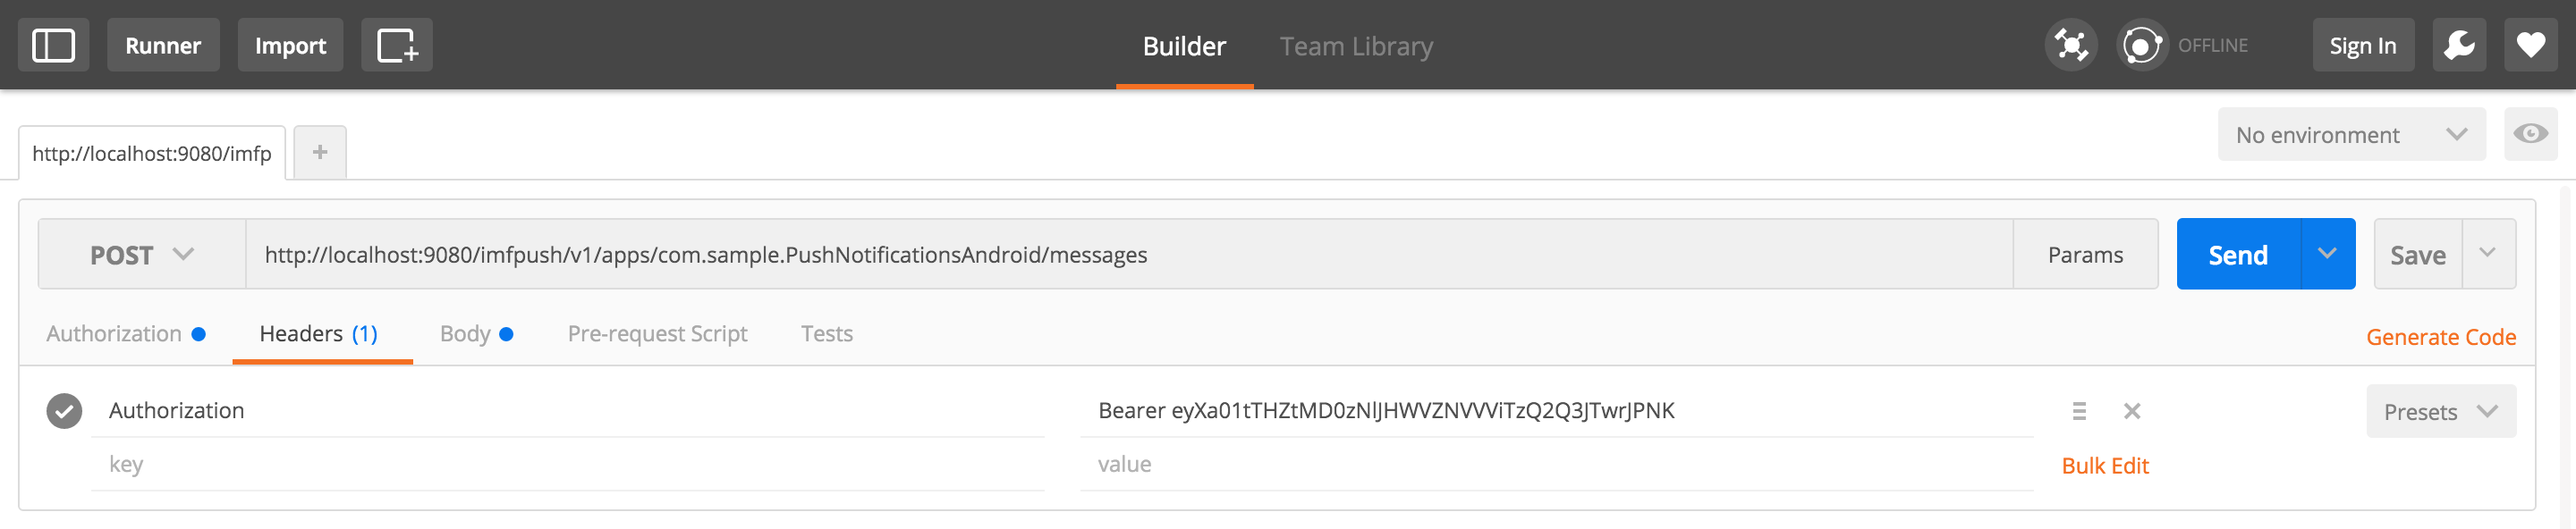
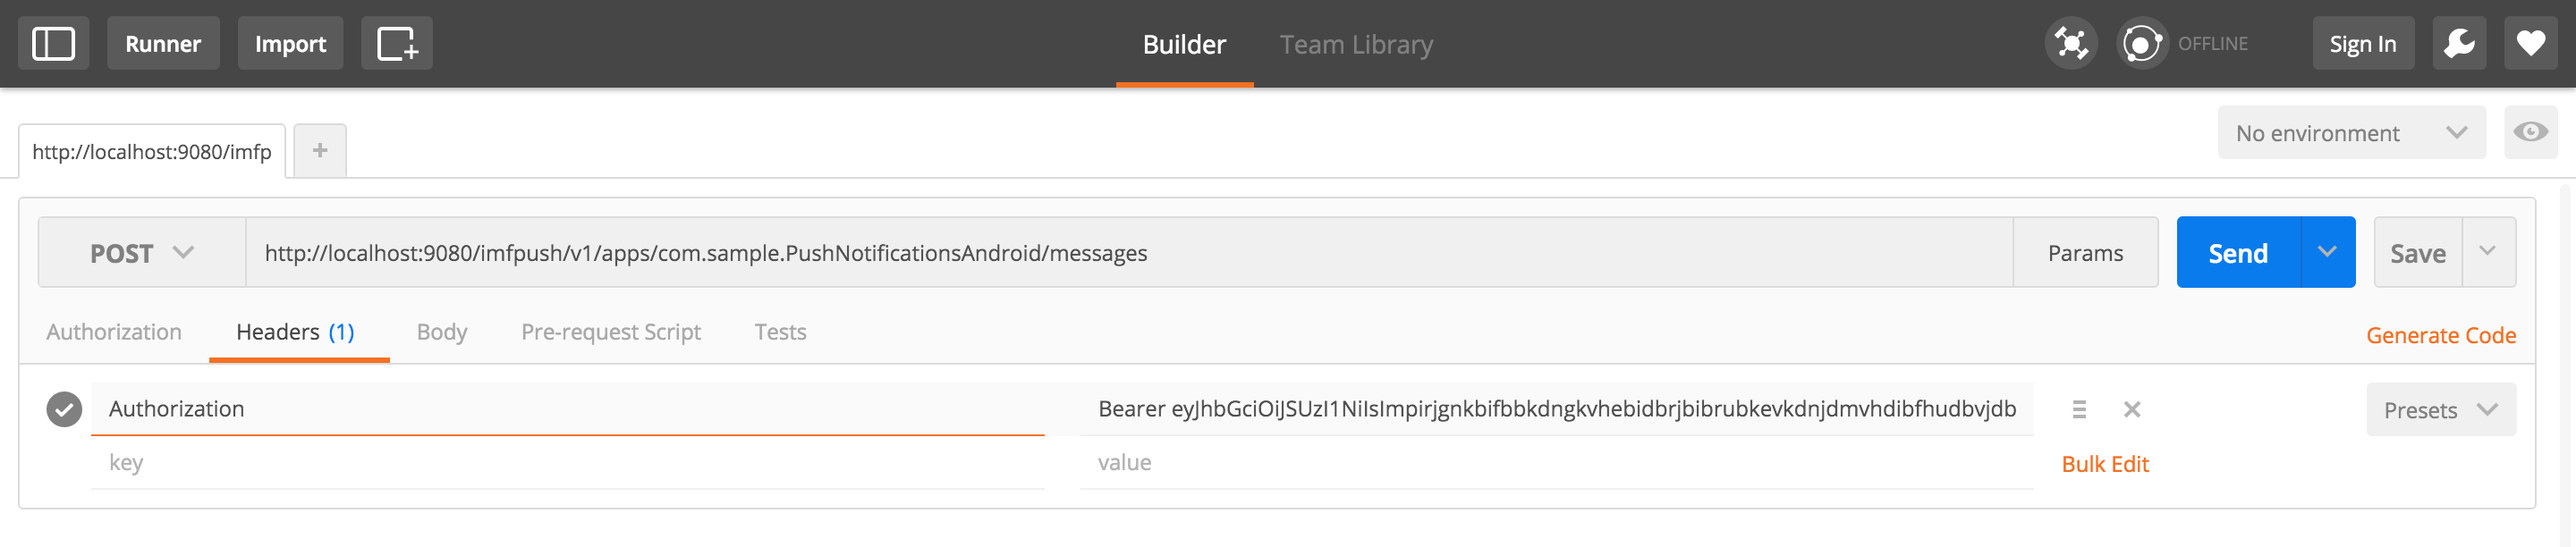
update tutorials

diff --git a/tutorials/en/foundation/8.0/authentication-and-security/confidential-clients/index.md b/tutorials/en/foundation/8.0/authentication-and-security/confidential-clients/index.md
@@ -38,31 +38,41 @@ The MobileFirst Server comes with a predefined testing confidential client:
 - **Allowed Scope**: `**`
 
 ## Obtaining an access token
-A token can be obtained using the MobileFirst Server's **token endpoint**.
+A token can be obtained from MobileFirst Server's **token endpoint**.  
+
+For **testing purposes**, you can use Postman as described below.  
+In a real setting, the bellow should be implemented in your backend logic.
 
 1. Make a **POST** request to **http(s)://[ipaddress-or-hostname]:[port]/[runtime]/api/az/v1/token**.  
-    For example: `http://myserver:9080/mfp/api/az/v1/token`
+    For example: `http://localhost:9080/mfp/api/az/v1/token`
     - In a development environment, the MobileFirst Server uses a pre-existing "mfp" runtime.  
-    - In a production environment, replace this value with your runtime name.
+    - In a production environment, replace the runtime value with your runtime name.
 
 2. Set the request with a content-type of `application/x-www-form-urlencoded`.  
 3. Set the following two form parameters:
   - `grant_type`: `client_credentials`
   - `scope`: The **scope** you need access to.
+
+    ![Creating a confidential client](confidential-client-steps-1-3.png)
+
 4. The request should be authenticated using [Basic Authentication](https://en.wikipedia.org/wiki/Basic_access_authentication#Client_side). Use your confidential client's **ID** and **secret**.
 
-    For example, using the **test** confidential client, you should have the **HTTP header**: `Authorization: Basic dGVzdDp0ZXN0` (`test:test` encoded using **base64**).
+    ![Creating a confidential client](confidential-client-step-4.png)
 
-    The response for this request will contain a JSON object, including the **access token** and its expiration time.
+    Outside of Postman, if using the **test** confidential client, you should have the **HTTP header** set to `Authorization: Basic dGVzdDp0ZXN0` (`test:test` encoded using **base64**).
 
-    ```json
-    {
-      "access_token": "eyXa01tTHZtMD0zNlJHWVZNVVViTzQ2Q3JTwrJPNK",
-      "token_type": "Bearer",
-      "expires_in": 3599,
-      "scope": "**"
-    }
-    ```
+The response for this request will contain a `JSON` object, including the **access token** and its expiration time (1 hour).
+
+```json
+{
+  "access_token": "eyJhbGciOiJSUzI1NiIsImp ...",
+  "token_type": "Bearer",
+  "expires_in": 3599,
+  "scope": "**"
+}
+```
+
+![Creating a confidential client](confidential-client-access-token.png)
 
 ## Using the access token
-From here on, requests can be made to the desired resources by adding the **HTTP header**: `Authorization: Bearer eyXa01tTHZtMD0zNlJHWVZNVVViTzQ2Q3JTwrJPNK`, replacing the access token by the one you extracted from the previous JSON object.
+From here on, requests can be made to the desired resources by adding the **HTTP header**: `Authorization: Bearer eyJhbGciOiJSUzI1NiIsImp ...`, replacing the access token by the one you extracted from the previous JSON object.

diff --git a/tutorials/en/foundation/8.0/notifications/sending-push-notifications/index.md b/tutorials/en/foundation/8.0/notifications/sending-push-notifications/index.md
@@ -181,48 +181,37 @@ userIds | An array of users represented by their userIds to send the notificatio
 ```
 
 #### Sending the notification
-The notification can be sent using different tools, for example with Postman as described below:
+The notification can be sent using different tools.  
+For testing purposes, Postman is used as described below:
 
 1. [Configure a Confidential Client and create an access token](../../authentication-and-security/confidential-clients/).  
     In this tutorial, the existing "Test Client" confidential client will be used.  
     
-2. Create a POST request to `http://localhost:9080/imfpush/v1/apps/com.sample.PushNotificationsAndroid/messages`  
+2. Make a **POST** request to **http://localhost:9080/imfpush/v1/apps/com.sample.PushNotificationsAndroid/messages**
     - If using a remote MobileFirst Server, replace the `hostname` and `port` values with your own.
     - Update the application identifier value with your own.
 
 3. Set a Header:
-    - **Authorization**: `Bearer eyXa01tTHZtMD0zNlJHWVZNVVViTzQ2Q3JTwrJPNK`
-
+    - **Authorization**: `Bearer eyJhbGciOiJSUzI1NiIsImp ...`
+    - Replace the value after "Bearer" with the value of your access token from step (1) above.
+    
     ![authorization header](postman_authorization_header.png)
 
 5. Set a Body:
-    - Replace "testUser" with the user you are logging in with in your application.
-    - Update other properties as described in [Notification payload](#notification-payload) above.
+    - Update its properties as described in [Notification payload](#notification-payload) above.
+    - For example, by adding the **target** property with the **userIds** attribute, you can send a notification to specific registered users.
 
     ```json
     {
         "message" : {
-        "alert" : "Test message",
-      },
-      "settings" : {
-        "apns" : {
-          "badge" : 1,
-          "payload" : ""
-        },
-        "gcm" : {
-          "payload" : ""
-        },
-      },
-      "target" : {
-        "platforms" : [ "G"],
-        "userIds" : [ "testUser"],
-      }
+            "alert" : "Test message"
+        }
     }
     ```
     
     ![authorization header](postman_json.png)
     
-After clicking on the **Send** button, the logged-in "testUser" should have now received a notification:
+After clicking on the **Send** button, the device should have now received a notification:
 
 *Update this image with the real one*
 ![Image of the sample application](notifications-app.png)
